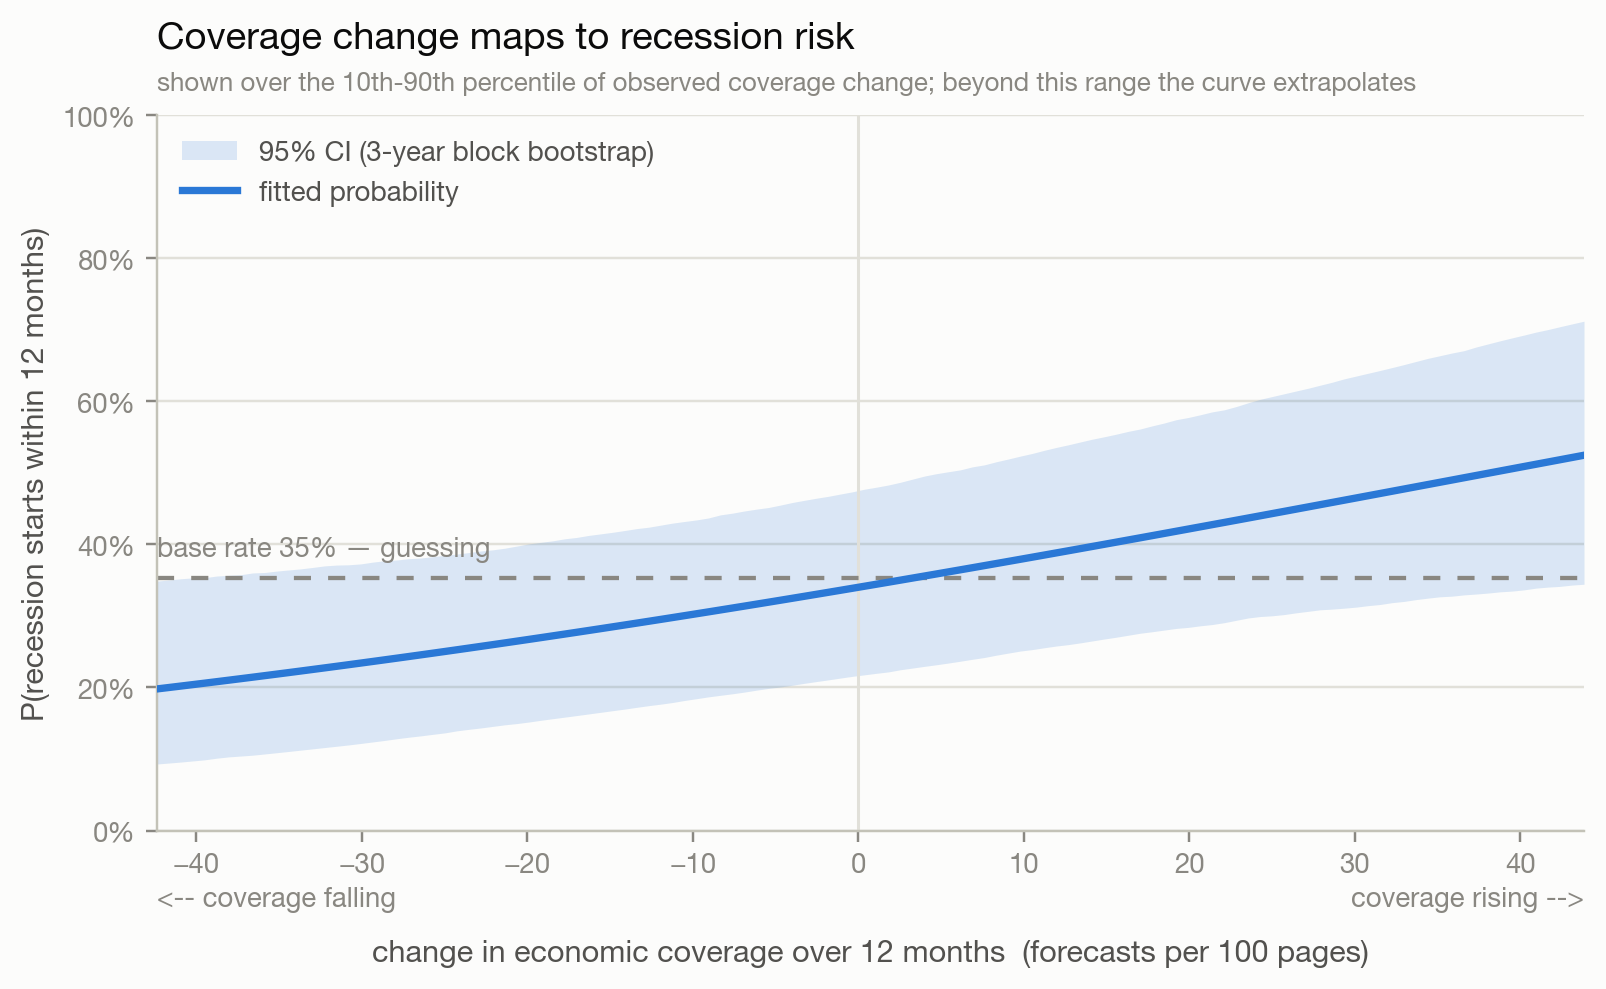
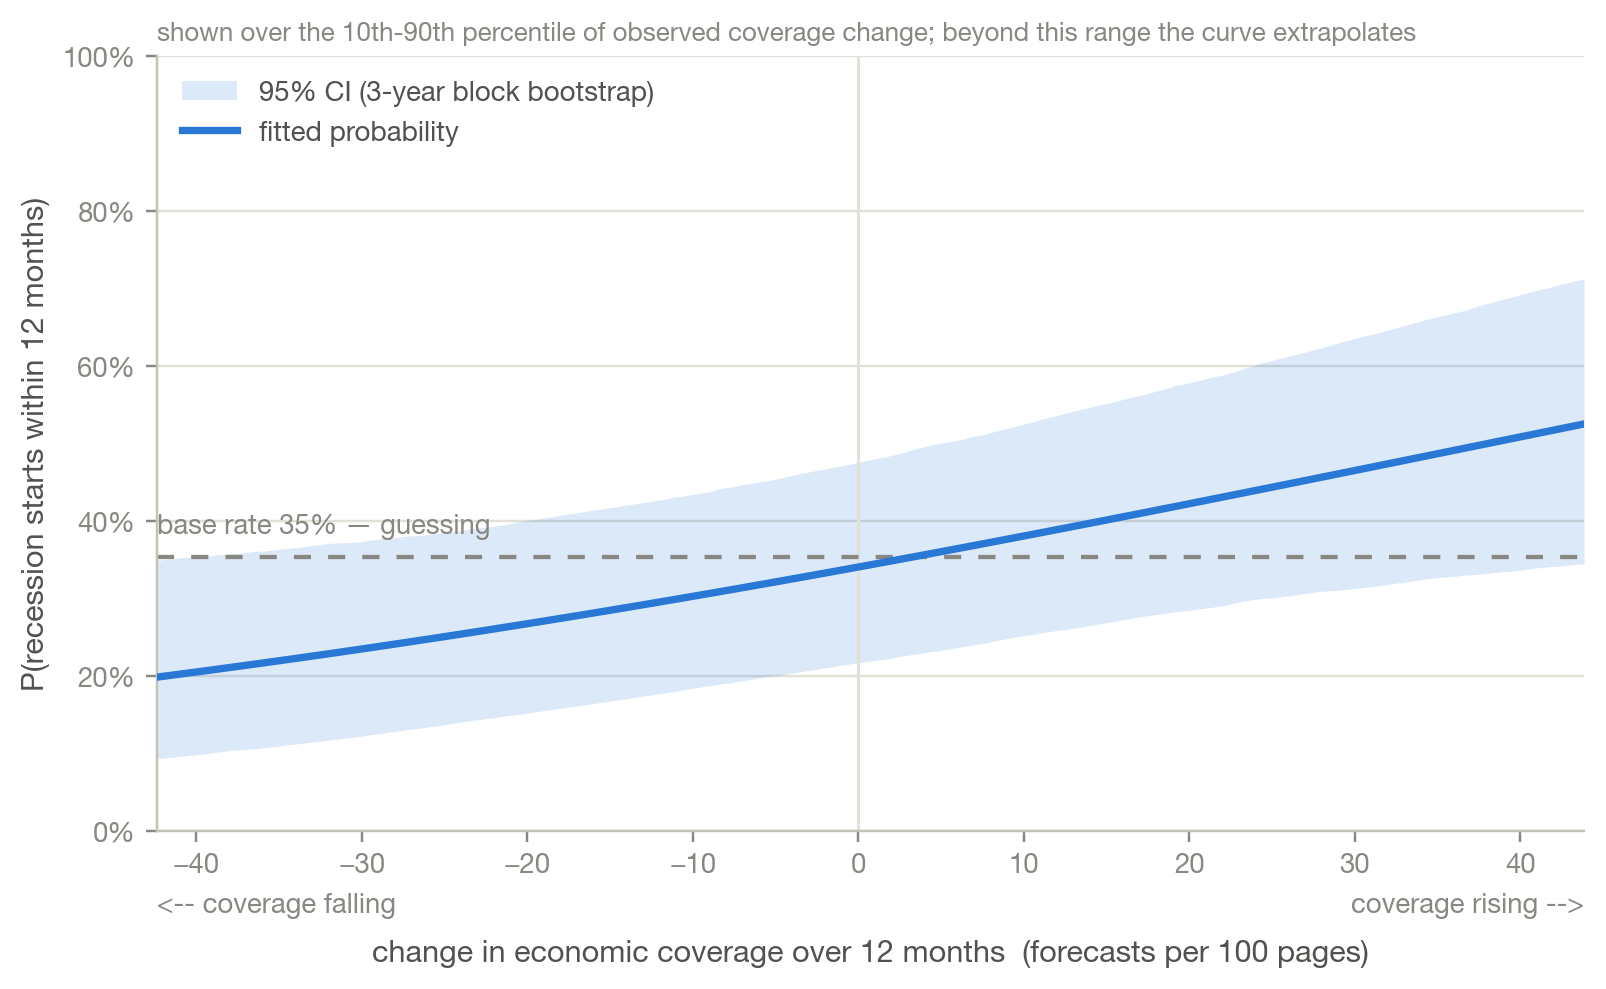
more

diff --git a/more_model_images/make_more_model_figures.py b/more_model_images/make_more_model_figures.py
@@ -32,7 +32,7 @@ FEAT = ["d_attention_12m"]
 
 # palette (light surface)
 INK, INK2, MUTED = "#0b0b0b", "#52514e", "#898781"
-GRID, SURFACE = "#e1e0d9", "#fcfcfb"
+GRID, SURFACE = "#e1e0d9", "#ffffff"
 BLUE, ORANGE, RED = "#2a78d6", "#eb6834", "#d03b3b"
 
 plt.rcParams.update({
@@ -82,6 +82,20 @@ def fit_predict(tr_mask, te_mask):
     return m.predict_proba(((X[te_mask] - mu) / sd)[FEAT])[:, 1]
 
 
+
+def _flatten(path):
+    """Save as RGB on white. RGBA PNGs can import with a black border in Slides/Keynote."""
+    from PIL import Image
+    im = Image.open(path)
+    if im.mode in ("RGBA", "LA", "P"):
+        im = im.convert("RGBA")
+        bg = Image.new("RGB", im.size, "#ffffff")
+        bg.paste(im, mask=im.split()[-1])
+        bg.save(path)
+    else:
+        im.convert("RGB").save(path)
+
+
 # ------------------------------------------------------------------ figure 1
 def conditional_mapping():
     d = X["d_attention_12m"]
@@ -123,11 +137,9 @@ def conditional_mapping():
     ax.set_xlabel("change in economic coverage over 12 months  (forecasts per 100 pages)",
                   labelpad=20)
     ax.set_ylabel("P(recession starts within 12 months)")
-    ax.set_title("Coverage change maps to recession risk", fontsize=12.5,
-                 fontweight="600", loc="left", pad=22)
     ax.annotate("shown over the 10th-90th percentile of observed coverage change; "
                 "beyond this range the curve extrapolates",
-                (0, 1.035), xycoords="axes fraction", color=MUTED, fontsize=8.5,
+                (0, 1.02), xycoords="axes fraction", color=MUTED, fontsize=8.5,
                 annotation_clip=False)
     ax.annotate("<-- coverage falling", (grid[0], -.105), xycoords=("data", "axes fraction"),
                 color=MUTED, fontsize=9, annotation_clip=False)
@@ -141,6 +153,7 @@ def conditional_mapping():
     fig.tight_layout()
     fig.savefig(OUT / "conditional_mapping.png", bbox_inches="tight", facecolor=SURFACE)
     plt.close(fig)
+    _flatten(OUT / "conditional_mapping.png")
     print(f"  conditional_mapping.png   p10={np.interp(np.percentile(d,10),grid,p):.3f} "
           f"p90={np.interp(np.percentile(d,90),grid,p):.3f} base={y.mean():.3f}")
 
@@ -228,6 +241,7 @@ def backtest_table():
 
     fig.savefig(OUT / "backtest_table.png", bbox_inches="tight", facecolor=SURFACE)
     plt.close(fig)
+    _flatten(OUT / "backtest_table.png")
     print(f"  backtest_table.png/.csv   forward-only {fwd[0][3]:.3f}/{fwd[1][3]:.3f}/{fwd[2][3]:.3f}"
           f"  rotating median {med:.3f}, {sum(r[3] > .5 for r in rot)}/{len(rot)} above 0.5")
 
